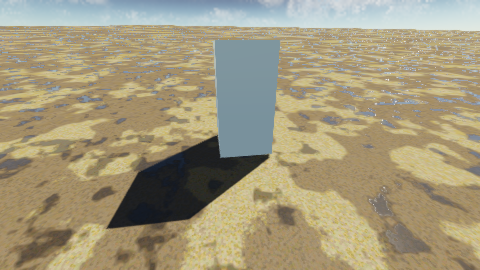
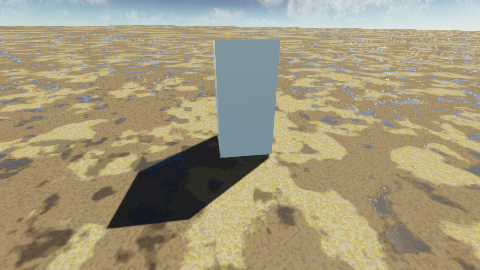
Tile RVT: native near view; pages over far ground follow a stamp; export takes stamps before the far image
* SetRvtTileGround(nativeNearM): patches within the native near radius keep the material itself (3.5 -> 1.7/255 from in place;
  12.7 ms instead of 10.0, in place 14.2).
* LandscapeRuntime::coarseChanged(keys): pages painted from far data go stale when it changes. A stamp 4.2 km away: pages
  3.4/255 from the ground in place (64.8 with the pages from before).
* Export: stamps reach the plan before the far image is painted; a reordering bug that dropped them is fixed (test).
* he_tests 6514/6514, landscape_gpu_check exit 0 on OpenGL, Metal, Vulkan.

diff --git a/src/HE_Tools/src/LandscapeGpuCheck/EngineCheck.cpp b/src/HE_Tools/src/LandscapeGpuCheck/EngineCheck.cpp
@@ -17,6 +17,8 @@
 #include <HorizonScene/HorizonWorld.h>
 #include <HorizonScene/LandscapeRuntime.h>
 #include <HorizonScene/RvtLandscape.h>
+#include <HorizonScene/LandscapeStamps.h>
+#include <HorizonScene/Components/LandscapeStampComponent.h>
 #include <HorizonScene/Components/TerrainComponent.h>
 #include <HorizonScene/TerrainSystem.h>
 #include <HorizonScene/TransformHierarchy.h>
@@ -824,6 +826,78 @@ int runMaterialCheck(HE::RendererBackend backend, HE::RenderPath path, const std
 							if (gapRvt > 6.0) fail("the ground from pages looks like the ground computed in place");
 							if (gapRvt <= gapPaused + 0.01) fail("the pages are what is drawn (the picture changes when the swap is paused)");
 							if (got) writePngFile(pngPath.substr(0, pngPath.size() - 4) + "_auto_rvt.png", static_cast<int>(kW), static_cast<int>(kH), rvtImg.data());
+							// A Landscape Stamp far from the camera, where the ground is drawn from the far data and from pages painted of
+							// it: the pages must show the stamped ground (they are stale when the far data takes the stamp, 0.3 s after it
+							// rests), in the colours the material gives it in place.
+							{
+								drv.pauseSwap(false);
+								TextureAsset tex;
+								tex.width = tex.height = 64;
+								tex.channels = 4;
+								tex.data.resize(64 * 64 * 4);
+								for (int y = 0; y < 64; ++y)
+									for (int x = 0; x < 64; ++x)
+									{
+										const float d = std::min(1.0f, std::hypot(x - 31.5f, y - 31.5f) / 31.5f);
+										for (int c = 0; c < 4; ++c) tex.data[(static_cast<size_t>(y) * 64 + x) * 4 + c] = static_cast<uint8_t>((1.0f - d) * 255.0f);
+									}
+								const glm::dvec3 at = camPos + glm::dvec3(4200.0, 0.0, 630.0);   // along the view, beyond the tiles in memory
+								const auto se = world.createEntity("Landscape Stamp");
+								TransformComponent& stf = reg.get_or_emplace<TransformComponent>(se);
+								stf.position = glm::vec3(at - origin);
+								stf.position.y = 0.0f;
+								stf.dirty = true;
+								LandscapeStampComponent sc;
+								sc.textureId = content.registerTexture(std::move(tex));
+								sc.sizeM = 1800.0f;
+								sc.heightM = 500.0f;
+								sc.falloff = 0.3f;
+								reg.emplace<LandscapeStampComponent>(se, sc);
+								HE::LandscapeStampSync stampSync;
+								uint32_t repainted = 0;
+								const auto pump = [&] {
+									std::vector<uint8_t> f;
+									const auto p0 = std::chrono::steady_clock::now();
+									for (int i = 0, quiet = 0; i < 4000 && quiet < 12; ++i)
+									{
+										rt.update(world, 0.016f, 5.0, &camPos);
+										const size_t again = stampSync.sync(world, rt, content);
+										const auto st = drv.tick(world, eye);
+										repainted += st.pagesPainted;
+										f.clear();
+										renderer->RenderSceneImage(ov, kW, kH, f);
+										const bool rested = std::chrono::steady_clock::now() - p0 > std::chrono::milliseconds(900);
+										quiet = (rested && again == 0 && rt.active() && rt.store()->settled() && drv.active() && st.pagesPainted == 0) ? quiet + 1 : 0;
+										std::this_thread::sleep_for(std::chrono::milliseconds(1));
+									}
+								};
+								pump();
+								std::vector<uint8_t> stampPages, stampPlace;
+								const bool gotS = shoot(stampPages);
+								drv.pauseSwap(true);
+								drv.tick(world, eye);
+								const bool gotT = shoot(stampPlace);
+								drv.pauseSwap(false);
+								// Where the stamp shows: the pixels the ground in place changed by. There the pages must be the stamped ground.
+								size_t seen = 0;
+								double fresh = 0.0, stale = 0.0;
+								if (gotS && gotT)
+									for (size_t i = 0; i < px; ++i)
+									{
+										if (std::abs(lum(&stampPlace[i * 4]) - lum(&autoImg[i * 4])) <= 12.0) continue;
+										++seen;
+										fresh += std::abs(lum(&stampPages[i * 4]) - lum(&stampPlace[i * 4]));
+										stale += std::abs(lum(&rvtImg[i * 4]) - lum(&stampPlace[i * 4]));
+									}
+								const double n5 = static_cast<double>(std::max<size_t>(seen, 1));
+								std::printf("  virtual texture, a stamp 4.2 km away: it shows in %zu px; there the pages differ from the ground in place by %.2f/255 "
+								            "(pages from before the stamp: %.2f), %u page(s) painted for it\n", seen, fresh / n5, stale / n5, repainted);
+								if (seen < 200) fail("the far stamp shows in the picture");
+								else if (fresh / n5 > 0.5 * stale / n5 || fresh / n5 > 10.0) fail("the pages over a far stamp show the stamped ground");
+								if (gotS) writePngFile(pngPath.substr(0, pngPath.size() - 4) + "_auto_rvt_farstamp.png", static_cast<int>(kW), static_cast<int>(kH), stampPages.data());
+								world.destroyEntity(se);
+								pump();
+							}
 							drv.detach();
 
 							// The same with texels so small that the table cannot hold the world (3.1 cm: a volume of 8.2 km in a world of

diff --git a/src/HE_Scene/src/LandscapeExport.cpp b/src/HE_Scene/src/LandscapeExport.cpp
@@ -118,7 +118,9 @@ namespace
 		// The world as its author sees it: the pack with its edits (LandscapeEdit.h) on top. An edited tile hashes by its own bytes.
 		LandscapeEditSource edited(source);
 		edited.setWorldId(source->identity());
-		const size_t editedTiles = pack.editsFile.empty() ? 0 : edited.loadFile(pack.editsFile);
+		// The stamps lie over both: a stamped tile is painted as it is shown and hashes by what it shows.
+		const size_t editedTiles = (pack.editsFile.empty() ? 0 : edited.loadFile(pack.editsFile))
+		                         + edited.setStamps(pack.stamps, 3000.0f, /*patchCoarse=*/false).size();
 		const LandscapeFarTileHash packHash = landscapePackTileHash(*source);
 		const LandscapeFarTileHash hash = editedTiles ? LandscapeFarTileHash([&](LandscapeTileKey k) { return edited.contentHash(k, packHash); }) : packHash;
 		const LandscapeTileSource& world = editedTiles ? static_cast<const LandscapeTileSource&>(edited) : *source;
@@ -192,7 +194,7 @@ size_t prepareLandscapePacksForExport(HorizonWorld& world, const std::filesystem
 	const bool hasCells = options.bakeHlod && !world.cellManifestJson().empty() && CellManifest::parse(world.cellManifestJson(), manifest);
 
 	auto& reg = world.registry();
-	size_t firstPack = plan.packs.size();   // of this scene (none yet)
+	bool stampsTaken = false;   // this scene's stamps went to its first pack
 	for (auto e : reg.view<LandscapeWorldComponent>())
 	{
 		LandscapeWorldComponent& lw = reg.get<LandscapeWorldComponent>(e);
@@ -224,6 +226,21 @@ size_t prepareLandscapePacksForExport(HorizonWorld& world, const std::filesystem
 			it = plan.packs.end() - 1;
 		}
 
+		// The scene's stamps (LandscapeStamps.h) go into the shipped pack like brush edits. Taken BEFORE the far image is painted:
+		// it is made from the world as its author sees it, stamps included.
+		// shortcut: a second scene that adds stamps to a pack whose far image an earlier scene baked gets them into the tiles only
+		if (!stampsTaken)
+		{
+			stampsTaken = true;
+			LandscapeStampImages images;
+			std::vector<LandscapeStamp> stamps = landscapeStampsOfWorld(world, content, images);
+			if (!stamps.empty())
+			{
+				say(0, "Landscape stamps: " + std::to_string(stamps.size()) + " baked into the shipped pack");
+				it->stamps.insert(it->stamps.end(), std::make_move_iterator(stamps.begin()), std::make_move_iterator(stamps.end()));
+			}
+		}
+
 		if (hasCells && !it->hlodDone)
 		{
 			it->hlodDone = true;
@@ -252,28 +269,14 @@ size_t prepareLandscapePacksForExport(HorizonWorld& world, const std::filesystem
 			bakeFarImage(*it, lw.textureGroup, content, options, plan, say);
 		}
 
-		if (firstPack == plan.packs.size()) firstPack = static_cast<size_t>(it - plan.packs.begin());
 		if (lw.pack != it->dest)
 		{
 			lw.pack = it->dest;
 			++rewritten;
 		}
 	}
-	// The scene's stamps (LandscapeStamps.h) go into the shipped pack like brush edits, and out of the shipped scene: a game that
-	// found them would lay them over the baked ground a second time.
-	if (firstPack < plan.packs.size())
-	{
-		LandscapeStampImages images;
-		std::vector<LandscapeStamp> stamps = landscapeStampsOfWorld(world, content, images);
-		if (!stamps.empty())
-		{
-			say(0, "Landscape stamps: " + std::to_string(stamps.size()) + " baked into the shipped pack");
-			LandscapeExportPack& p = plan.packs[firstPack];
-			p.stamps.insert(p.stamps.end(), std::make_move_iterator(stamps.begin()), std::make_move_iterator(stamps.end()));
-			// shortcut: the far image painted above does not see the stamps (the heights do), paint it from the stamped tiles when that shows
-		}
-		if (!reg.view<LandscapeStampComponent>().empty()) { reg.clear<LandscapeStampComponent>(); ++rewritten; }
-	}
+	// Out of the shipped scene: a game that found the stamps would lay them over the baked ground a second time.
+	if (stampsTaken && !reg.view<LandscapeStampComponent>().empty()) { reg.clear<LandscapeStampComponent>(); ++rewritten; }
 	return rewritten;
 }
 

diff --git a/src/HE_Rendering/include/Backends/Metal/MetalRenderer.h b/src/HE_Rendering/include/Backends/Metal/MetalRenderer.h
@@ -116,8 +116,8 @@ public:
 	void  SetRvtLandscape(uint32_t terrainEntity, const HE::UUID& landscapeMaterial, const HE::UUID& consumerMaterial) override;
 	void  ReleaseRvtConsumer(const HE::UUID& consumerMaterial) override;
 	void  SetRvtNearChunks(uint32_t terrainEntity, const std::vector<uint32_t>& chunkEntities) override;
-	void  SetRvtTileGround(const HE::UUID& consumerMaterial, const glm::dvec2& minXZ, const glm::dvec2& maxXZ) override
-	{ m_tileRvtConsumer = consumerMaterial; m_tileRvtMin = minXZ; m_tileRvtMax = maxXZ; }
+	void  SetRvtTileGround(const HE::UUID& consumerMaterial, const glm::dvec2& minXZ, const glm::dvec2& maxXZ, float nativeNearM) override
+	{ m_tileRvtConsumer = consumerMaterial; m_tileRvtMin = minXZ; m_tileRvtMax = maxXZ; m_tileRvtNearM = nativeNearM; }
 	void  SetSceneVisible(bool visible) override { m_sceneHidden = !visible; }
 	bool  m_sceneHidden = false;   // SetSceneVisible: the offscreen viewport is not shown this frame, its scene passes are skipped
 	bool  ReadRvtFeedback(std::vector<uint32_t>& keys) override;
@@ -1670,6 +1670,7 @@ private:
 	// lie wholly inside into `inside` (drawn with the consumer); false: none, or the consumer cannot be drawn now.
 	HE::UUID   m_tileRvtConsumer{};
 	glm::dvec2 m_tileRvtMin{ 0.0 }, m_tileRvtMax{ 0.0 };
+	float      m_tileRvtNearM = 0.0f;   // patches nearer than this keep the ground's own material (native near view)
 	bool TakeRvtTilePatches(HE::LandscapeRenderFrame& frame, bool gbuffer, std::vector<HE::LandscapeRenderPatch>& inside);
 	GpuMesh  m_giLandMesh;                       // the tile landscape's GI height clipmap as a mesh with its BLAS (EncodeGIAccelBuild)
 	uint64_t m_giLandMeshVersion = 0;            // GiHeightfield::version it was made from

diff --git a/src/HE_Core/include/Renderer/IRenderer.h b/src/HE_Core/include/Renderer/IRenderer.h
@@ -814,7 +814,11 @@ public:
     // The tile landscape's ground (SetLandscapeProvider): its patches that lie wholly inside the absolute XZ rectangle are drawn
     // with `consumerMaterial` (which reads the pool through the table SetRvtPageTable gave it), the others with the ground's own
     // material as before. Null `consumerMaterial` = off. A backend without it draws the whole ground with its own material.
-    virtual void SetRvtTileGround(const HE::UUID& /*consumerMaterial*/, const glm::dvec2& /*minXZ*/, const glm::dvec2& /*maxXZ*/) {}
+    // `nativeNearM` > 0: patches closer to the camera than this (horizontally, to the patch's square) keep the ground's own
+    // material too (the native near view: up close the material itself is sharper than any page; the driver passes the distance
+    // at which a mip-0 texel is a pixel, so the change of material is where both are equally sharp).
+    virtual void SetRvtTileGround(const HE::UUID& /*consumerMaterial*/, const glm::dvec2& /*minXZ*/, const glm::dvec2& /*maxXZ*/,
+                                  float /*nativeNearM*/ = 0.0f) {}
     // The pages the lookup's feedback reported since the last call (keys of RvtLookup.h's rvtFeedbackKey, unordered, may repeat),
     // appended to `keys`. False = the backend has no feedback (the driver then serves the camera square alone).
     virtual bool ReadRvtFeedback(std::vector<uint32_t>& /*keys*/) { return false; }

diff --git a/src/HE_Rendering/src/Backends/Metal/MetalRenderer.mm b/src/HE_Rendering/src/Backends/Metal/MetalRenderer.mm
@@ -16585,6 +16585,13 @@ bool MetalRenderer::TakeRvtTilePatches(HE::LandscapeRenderFrame& frame, bool gbu
 	const glm::dvec2 o(frame.uvOrigin.x, frame.uvOrigin.z);   // patch corners are relative to the floating origin
 	const auto mid = std::stable_partition(frame.patches.begin(), frame.patches.end(), [&](const HE::LandscapeRenderPatch& p) {
 		const double x0 = double(p.x0) + o.x, z0 = double(p.z0) + o.y;
+		// The native near view: a patch within reach of the camera keeps the material itself.
+		if (m_tileRvtNearM > 0.0f)
+		{
+			const float dx = std::max({ p.x0 - frame.cameraRel.x, 0.0f, frame.cameraRel.x - (p.x0 + p.size) });
+			const float dz = std::max({ p.z0 - frame.cameraRel.z, 0.0f, frame.cameraRel.z - (p.z0 + p.size) });
+			if (dx * dx + dz * dz < m_tileRvtNearM * m_tileRvtNearM) return true;
+		}
 		return !(x0 >= m_tileRvtMin.x && z0 >= m_tileRvtMin.y && x0 + double(p.size) <= m_tileRvtMax.x && z0 + double(p.size) <= m_tileRvtMax.y);
 	});
 	inside.assign(mid, frame.patches.end());

diff --git a/src/HE_Scene/src/RvtLandscapeTiles.cpp b/src/HE_Scene/src/RvtLandscapeTiles.cpp
@@ -13,6 +13,7 @@
 #include <glm/gtc/matrix_transform.hpp>
 #include <algorithm>
 #include <cmath>
+#include <cstdlib>
 
 namespace HE::landscape
 {
@@ -317,7 +318,10 @@ void RvtLandscape::tileGroundTables(HorizonWorld& live, FrameStats& st)
 
     const bool want = t.filled && !m_paused;
     const glm::dvec2 mx = t.anchor + glm::dvec2(double(l.extentM()));
-    m_renderer.SetRvtTileGround(want ? t.consumer : HE::UUID{}, t.anchor, mx);
+    // The native near view, as for the single landscape: HE_RVT_NATIVE_NEAR=0 / 1 over the setting.
+    static const int envNear = [] { const char* v = std::getenv("HE_RVT_NATIVE_NEAR"); return (v && *v) ? (*v == '0' ? 0 : 1) : -1; }();
+    const bool nativeNear = envNear >= 0 ? envNear == 1 : m_settings.nativeNear;
+    m_renderer.SetRvtTileGround(want ? t.consumer : HE::UUID{}, t.anchor, mx, nativeNear ? nativeNearRadius() : 0.0f);
     t.swapOn = want;
     if (want) ++st.activeSegments;
 }

diff --git a/src/HE_Scene/include/HorizonScene/LandscapeRuntime.h b/src/HE_Scene/include/HorizonScene/LandscapeRuntime.h
@@ -206,7 +206,7 @@ public:
 	LandscapeEditSource* edits() const { return m_edits.get(); }
 	const std::filesystem::path& packFile() const { return m_packFile; }
 	void tilesReplaced(const std::vector<std::pair<LandscapeTileKey, std::shared_ptr<const LandscapeTile>>>& tiles);
-	void coarseChanged();
+	void coarseChanged(const std::vector<LandscapeTileKey>* keys = nullptr);   // `keys`: the tiles whose far data changed (takeChangedTiles names them)
 	// What a move of the render window is to the renderer. True: only the far data changed (coarseRevision), the tile atlas and the slot
 	// table stay, nothing near the camera is uploaded again. False (the default, safe with any backend): another landscape, the atlas
 	// begins again. Set it from IRenderer::Capabilities::landscapeCoarseRevision of the backend that draws this runtime.

diff --git a/tests/test_landscape_edit.cpp b/tests/test_landscape_edit.cpp
@@ -976,10 +976,13 @@ TEST_CASE("LandscapeStampSync: a stamp entity reaches the runtime's overlay, an 
 		LandscapeExportPlan plan;
 		LandscapeExportOptions options;
 		options.bakeHlod = false;
-		options.bakeFar = false;
+		options.bakeFar = true;   // painted from the world with its stamps: they are in the plan before the far image is made
 		prepareLandscapePacksForExport(scene, packFile.parent_path(), cm, options, plan, {});
 		REQUIRE(plan.packs.size() == 1);
 		CHECK(plan.packs[0].stamps.size() == 1);
+		CHECK(plan.packs[0].farDone);
+		CHECK(plan.farBake.baked > 0);
+		CHECK(plan.farBake.failed == 0);
 		CHECK(scene.registry().view<LandscapeStampComponent>().empty());
 		const std::filesystem::path copy = tempFile("stamp_export.bin");
 		std::filesystem::copy_file(packFile, copy);

diff --git a/src/HE_Scene/src/LandscapeRuntime.cpp b/src/HE_Scene/src/LandscapeRuntime.cpp
@@ -228,8 +228,11 @@ void LandscapeRuntime::placeWindow()
 	m_pendingTable.clear();
 }
 
-void LandscapeRuntime::coarseChanged()
+void LandscapeRuntime::coarseChanged(const std::vector<LandscapeTileKey>* keys)
 {
+	// The far levels of these tiles are other data now: a picture painted from them (a virtual texture page over ground the atlas
+	// does not hold) is stale, although no tile was taken up.
+	if (keys) m_changedTiles.insert(keys->begin(), keys->end());
 	++m_coarseRevision;
 	if (!active()) return;
 	// The window's coarse world again: a crop is a copy, and an overlay hands out another object once it has its first edit.

diff --git a/src/HE_Scene/src/LandscapeStamps.cpp b/src/HE_Scene/src/LandscapeStamps.cpp
@@ -110,8 +110,8 @@ size_t LandscapeStampSync::sync(HorizonWorld& world, LandscapeRuntime& runtime, 
 			std::sort(m_pendingCoarse.begin(), m_pendingCoarse.end(), [](const LandscapeTileKey& a, const LandscapeTileKey& b) { return a.x != b.x ? a.x < b.x : a.z < b.z; });
 			m_pendingCoarse.erase(std::unique(m_pendingCoarse.begin(), m_pendingCoarse.end()), m_pendingCoarse.end());
 			edits->patchCoarseFor(m_pendingCoarse);
+			runtime.coarseChanged(&m_pendingCoarse);   // also: what was painted from the far data of these tiles is stale
 			m_pendingCoarse.clear();
-			runtime.coarseChanged();
 		}
 		return 0;
 	}

diff --git a/src/HE_Scene/src/LandscapeEdit.cpp b/src/HE_Scene/src/LandscapeEdit.cpp
@@ -634,7 +634,7 @@ void LandscapeEditSession::apply(const std::vector<std::pair<LandscapeTileKey, L
 	}
 	m_runtime.tilesReplaced(inPlace);
 	m_runtime.tileChanged(reload);
-	if (finish) m_runtime.coarseChanged();
+	if (finish) m_runtime.coarseChanged(&reload);
 }
 
 size_t LandscapeEditSession::commit()

diff --git a/docs/landscape-tile-material-state-2026-11-22.md b/docs/landscape-tile-material-state-2026-11-22.md
@@ -100,6 +100,20 @@ Branch `claude/landscape-weltmassstab-100km`, up to `1e118e0a6`.
 * Not verified: the seam between consumer and in-place patches as a pixel row (only as part of whole-frame means), the editor
   by hand with RVT on.
 
+*Fourth session, 22.11.: native near view, far ground under a stamp*
+* Native near view for the tile virtual texture: `SetRvtTileGround(..., nativeNearM)`, `TakeRvtTilePatches` keeps a patch within
+  `RvtLandscape::nativeNearRadius()` of the camera on the material itself (setting `nativeNear`, `HE_RVT_NATIVE_NEAR=0/1`).
+  Whole-frame gap to the ground in place 3.5 -> 1.7/255. Cost: a patch is 128 m and more, so much more than the radius goes in
+  place: 12.7 ms instead of 10.0 (in place 14.2). Switch it off where time matters more than the near ground.
+* Far ground under a stamp: with a material the far ground is the material on the coarse heights, so it shows a stamp once the
+  far data has it. The bug was the virtual texture: pages over ground the atlas does not hold were never marked stale.
+  `LandscapeRuntime::coarseChanged(keys)` now names the tiles (stamp sync, brush stroke end). Witness: a stamp 4.2 km away shows
+  in 1467 px, pages 3.4/255 from the ground in place there (pages from before the stamp: 64.8); **not run without the fix**.
+  Picture `landscape_Metal_engine_material_auto_rvt_farstamp.png`.
+* Export: the stamps are in the plan before the far image is painted (`prepareLandscapePacksForExport`), and `bakeFarImage`
+  paints from the overlay with them. The far image itself is made of the PAINTED layers only (`landscapeFarWeightPainter`): a
+  height stamp does not change its colours, on any backend that reads it (the fixed blend, near and far alike).
+
 *Landscape Stamp (replaces "heightmap import onto a world")*
 * `LandscapeStamp` + `LandscapeEditSource::setStamps / shown / stamped / patchCoarseFor` (`LandscapeEdit.h/.cpp`): stamps lie
   over the tiles AND their brush edits and are applied when a tile is loaded; the brushes edit the ground underneath (the brush
